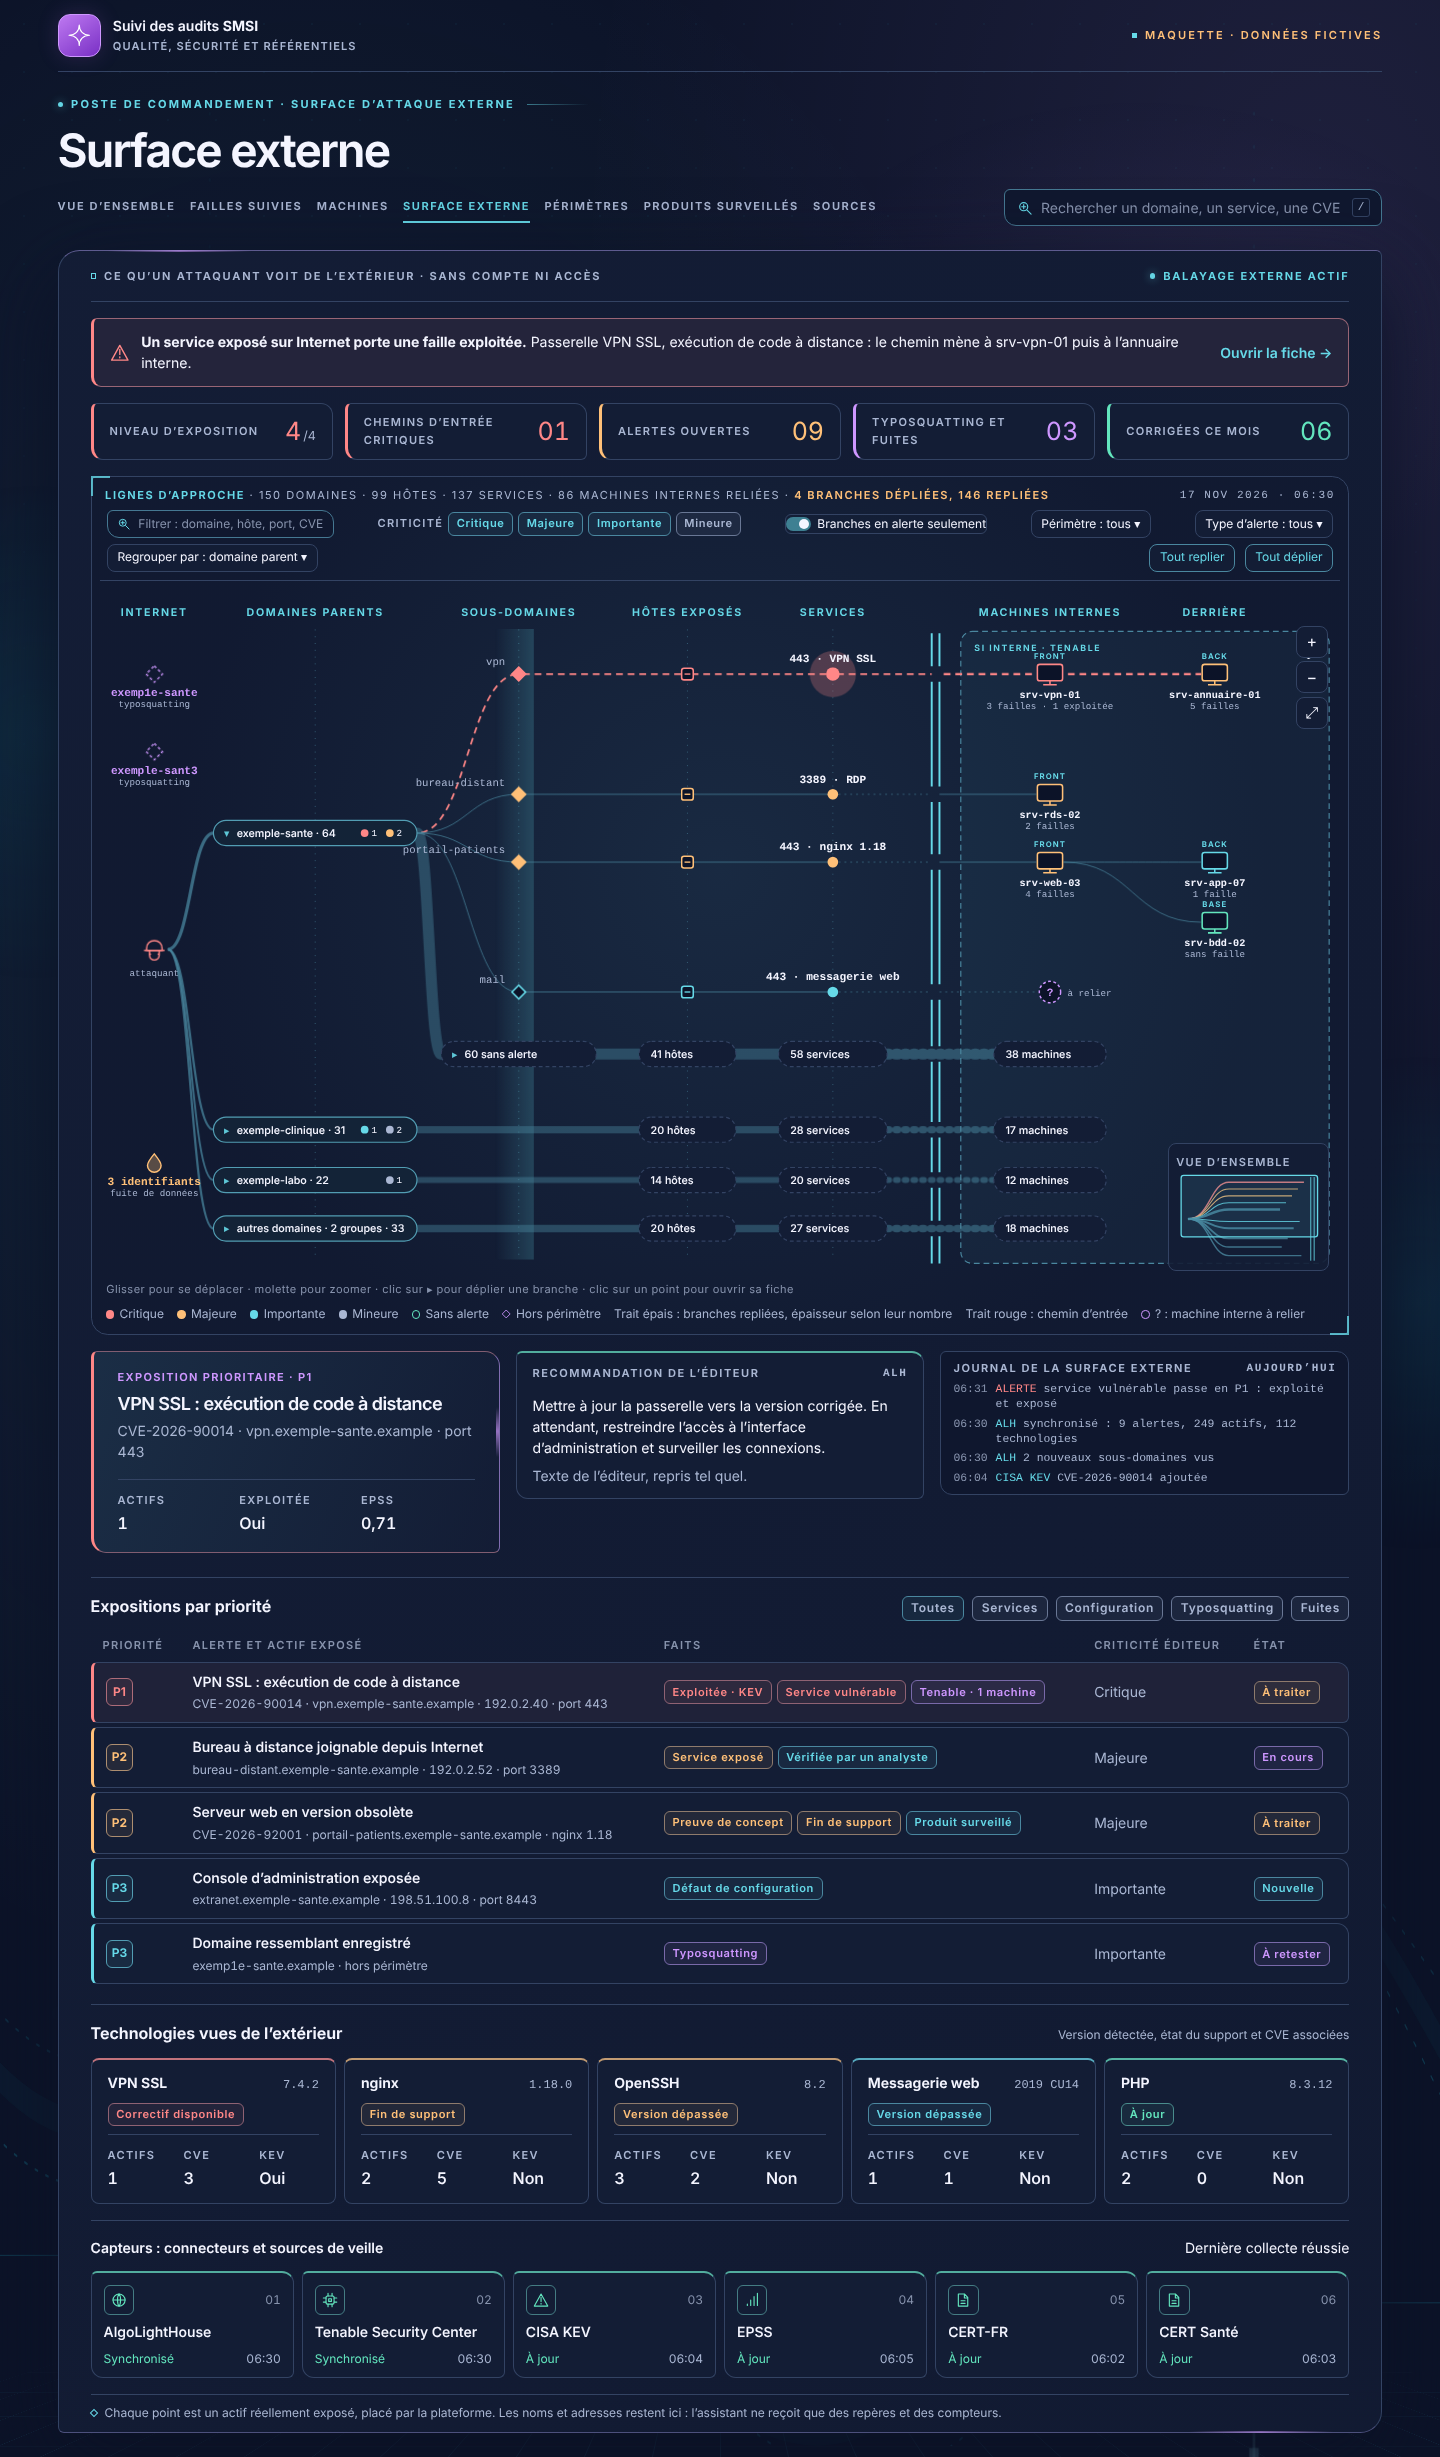
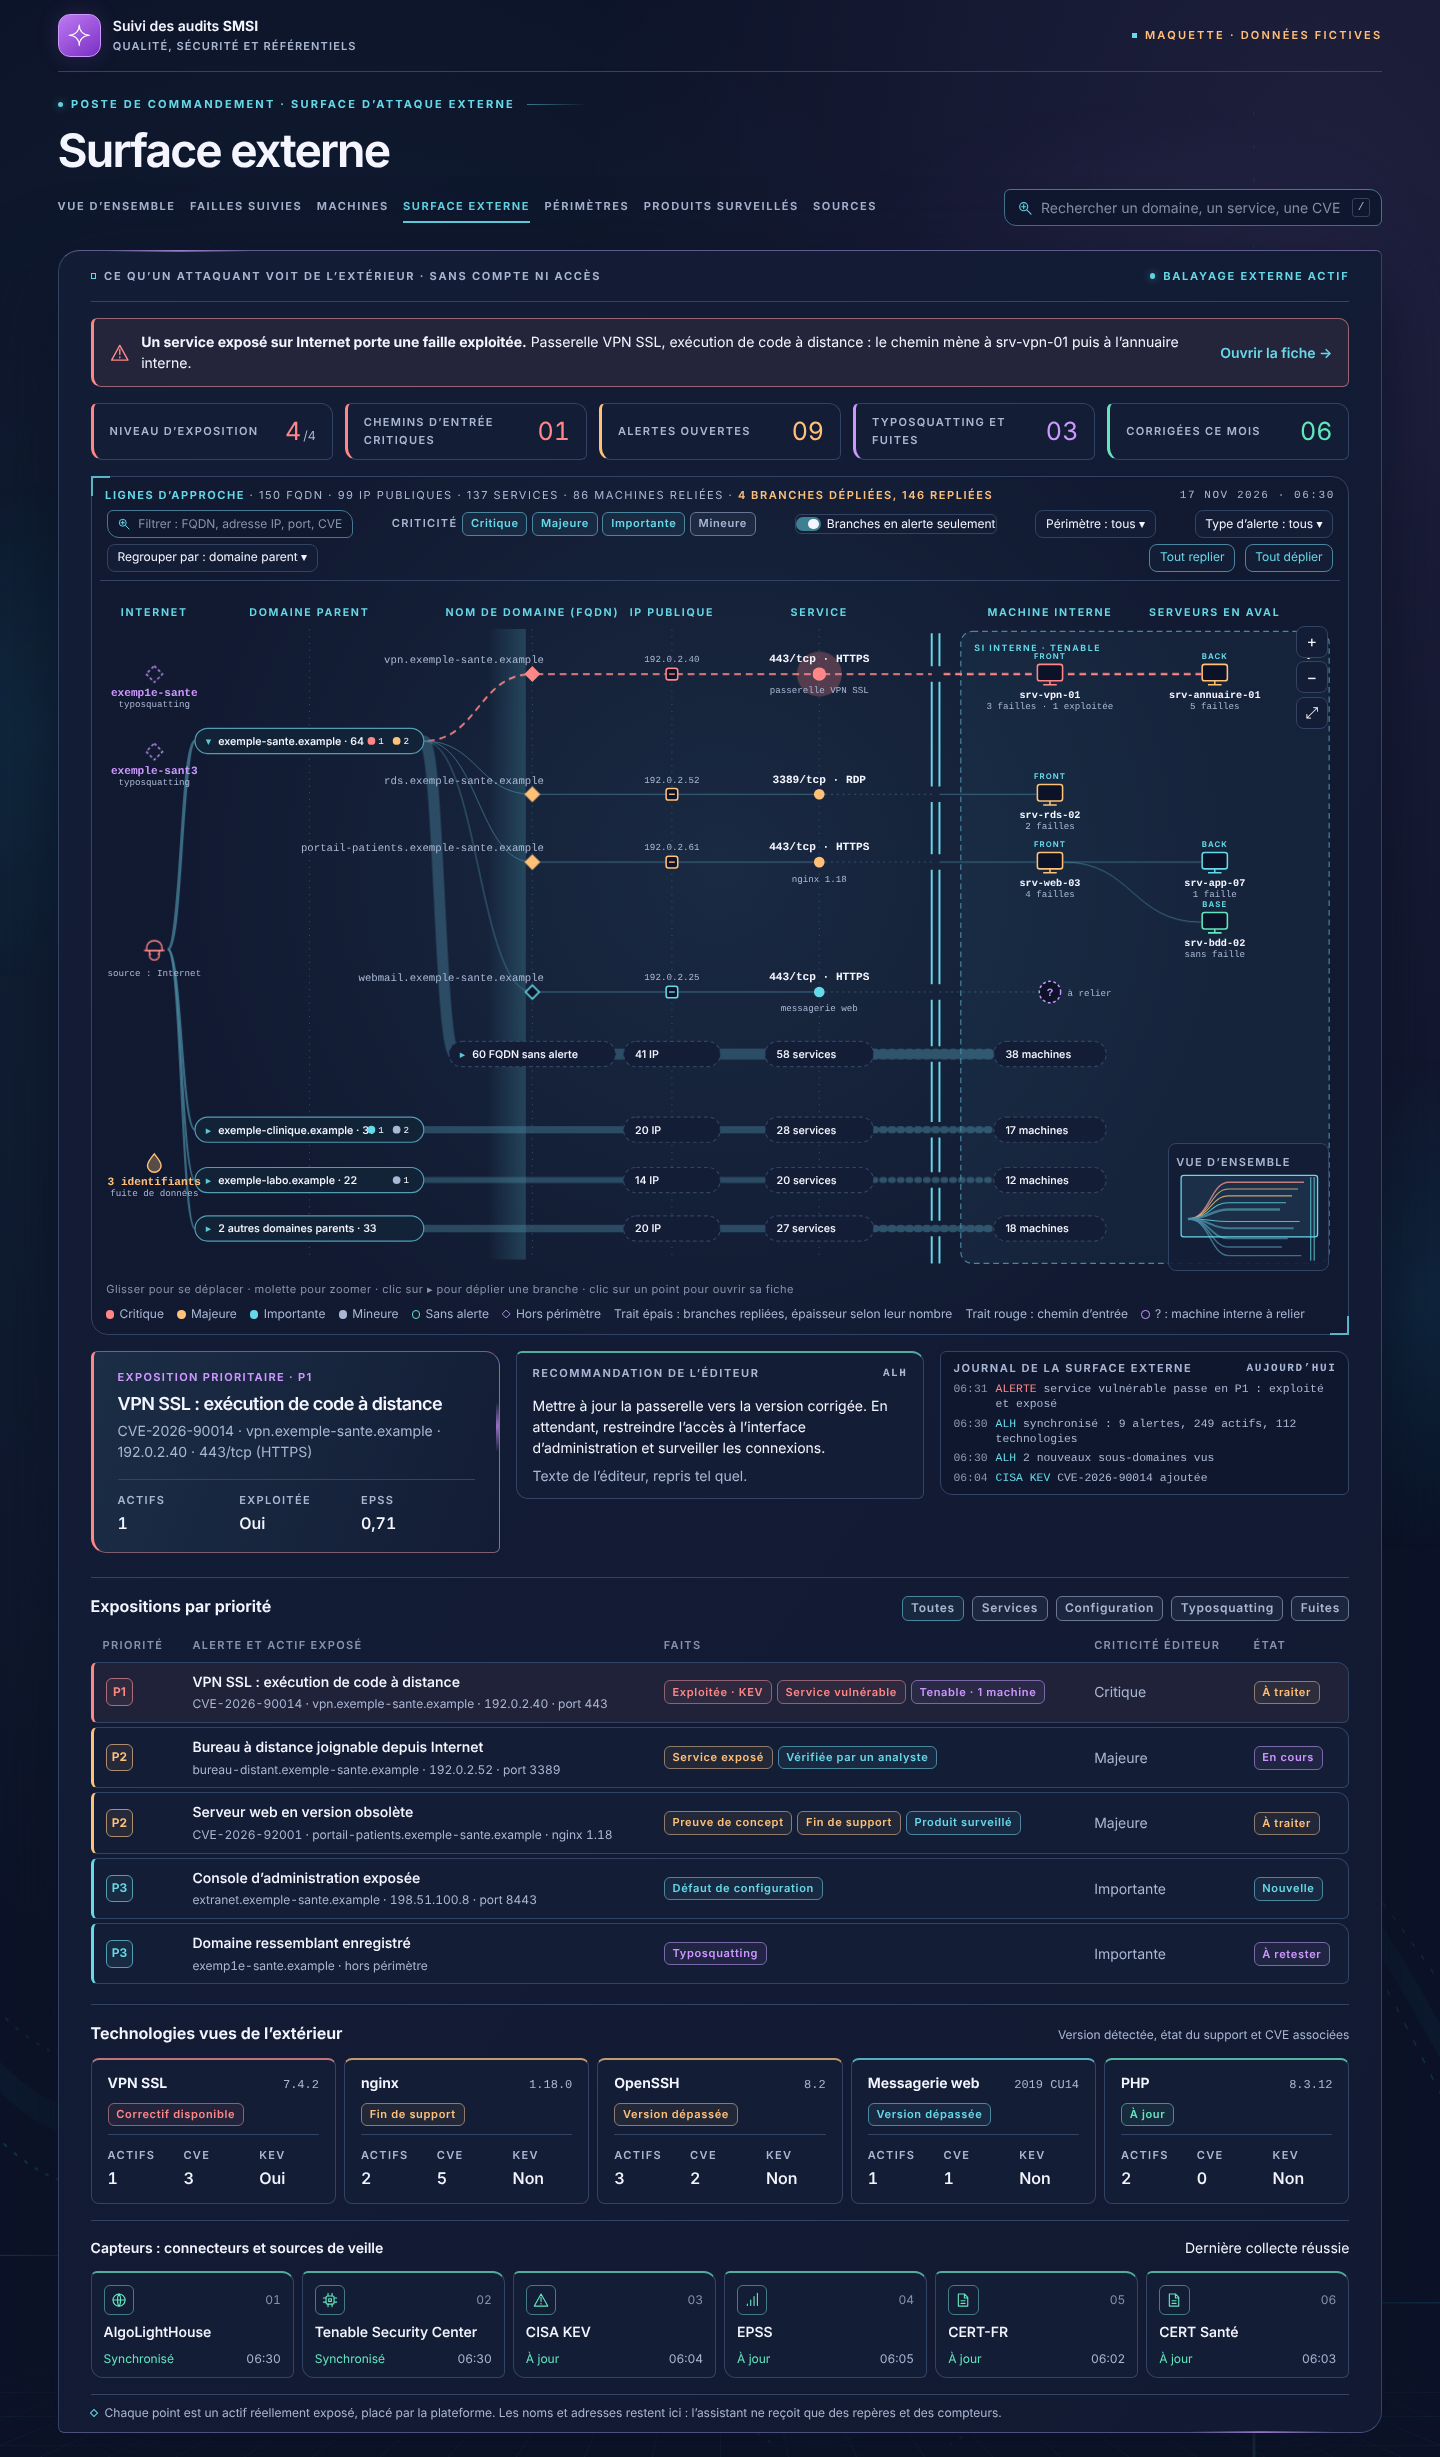
fix(vulnerabilites): termes techniques exacts sur la carte de la surface externe (lot ALH4)
Remarque du RSSI : « vpn » se lisait comme un service alors que c'est un nom de domaine.
- carte : nom de domaine complet (FQDN) au lieu de son libellé court ; colonnes « Domaine parent » (ou
  « Périmètre » selon le regroupement), « Nom de domaine », « IP publique », « Alerte ouverte », « Limite du
  SI », « Machine interne » ; le type de l'alerte est écrit au-dessus de sa criticité ;
- maquette : mêmes termes, service écrit port/protocole puis produit.

Vérifié : typage, lint, format, tests web (572). Rendu de la carte non revu après ce changement de libellés.

Session : « Module surveillance vulnérabilités SMSI » (session_01EnWdzdnc8fBi6Yrc154Jy6)

Claude-Session: https://claude.ai/code/session_01EnWdzdnc8fBi6Yrc154Jy6

diff --git a/apps/web/src/vulnerabilites/CarteSurface.tsx b/apps/web/src/vulnerabilites/CarteSurface.tsx
@@ -196,7 +196,8 @@ function DessinRangee({
             className={`sc-forme sc-domaine ${p ? classeCriticite(p.criticite) : 'sc-sans-alerte'}`}
           />
           <text x={X.domaine} y={r.y - 13} textAnchor="middle" className="sc-texte sc-texte--secondaire">
-            {tronque(l.etiquette, 28)}
+            {/* Nom de domaine complet : un libellé court comme « vpn » se lirait comme un nom de service. */}
+            {tronque(l.domaine?.valeur ?? l.etiquette, 32)}
           </text>
         </Bouton>
       )}
@@ -215,7 +216,10 @@ function DessinRangee({
         >
           {l.critique && <circle cx={X.alerte} cy={r.y} r={13} className="sc-halo" />}
           <circle cx={X.alerte} cy={r.y} r={7} className={`sc-forme sc-alerte ${classeCriticite(p.criticite)}`} />
-          <text x={X.alerte} y={r.y - 16} textAnchor="middle" className="sc-texte">
+          <text x={X.alerte} y={r.y - 27} textAnchor="middle" className="sc-texte sc-texte--secondaire">
+            {tronque(libelleTypeAlerte(p.type), 26)}
+          </text>
+          <text x={X.alerte} y={r.y - 15} textAnchor="middle" className="sc-texte">
             {tronque(libelleAlertes(l), 26)}
           </text>
         </Bouton>
@@ -556,7 +560,7 @@ export function CarteSurface({
             />
             {COLONNES.map((c) => (
               <text key={c.cle} x={c.x} y={HAUT - 34} textAnchor="middle" className="sc-texte sc-colonne">
-                {c.libelle}
+                {c.cle === 'groupe' && regroupement === 'perimetre' ? 'Périmètre' : c.libelle}
               </text>
             ))}
             <rect

diff --git a/apps/web/src/vulnerabilites/carte-surface.ts b/apps/web/src/vulnerabilites/carte-surface.ts
@@ -300,12 +300,12 @@ export const MACHINES_PAR_LIGNE = 3;
 
 export const COLONNES = [
   { cle: 'internet', libelle: 'Internet', x: X.internet },
-  { cle: 'groupe', libelle: 'Branches', x: (X.groupe + X.groupeFin) / 2 },
-  { cle: 'domaine', libelle: 'Domaines', x: X.domaine },
-  { cle: 'hote', libelle: 'Hôtes exposés', x: X.hote },
-  { cle: 'alerte', libelle: 'Alertes ouvertes', x: X.alerte },
-  { cle: 'rempart', libelle: 'Rempart', x: X.rempart },
-  { cle: 'machine', libelle: 'Machines internes', x: X.machine + 70 },
+  { cle: 'groupe', libelle: 'Domaine parent', x: (X.groupe + X.groupeFin) / 2 },
+  { cle: 'domaine', libelle: 'Nom de domaine', x: X.domaine },
+  { cle: 'hote', libelle: 'IP publique', x: X.hote },
+  { cle: 'alerte', libelle: 'Alerte ouverte', x: X.alerte },
+  { cle: 'rempart', libelle: 'Limite du SI', x: X.rempart },
+  { cle: 'machine', libelle: 'Machine interne', x: X.machine + 70 },
 ] as const;
 
 export type ParCriticite = Record<CriticiteAlh | 'inconnue', number>;
